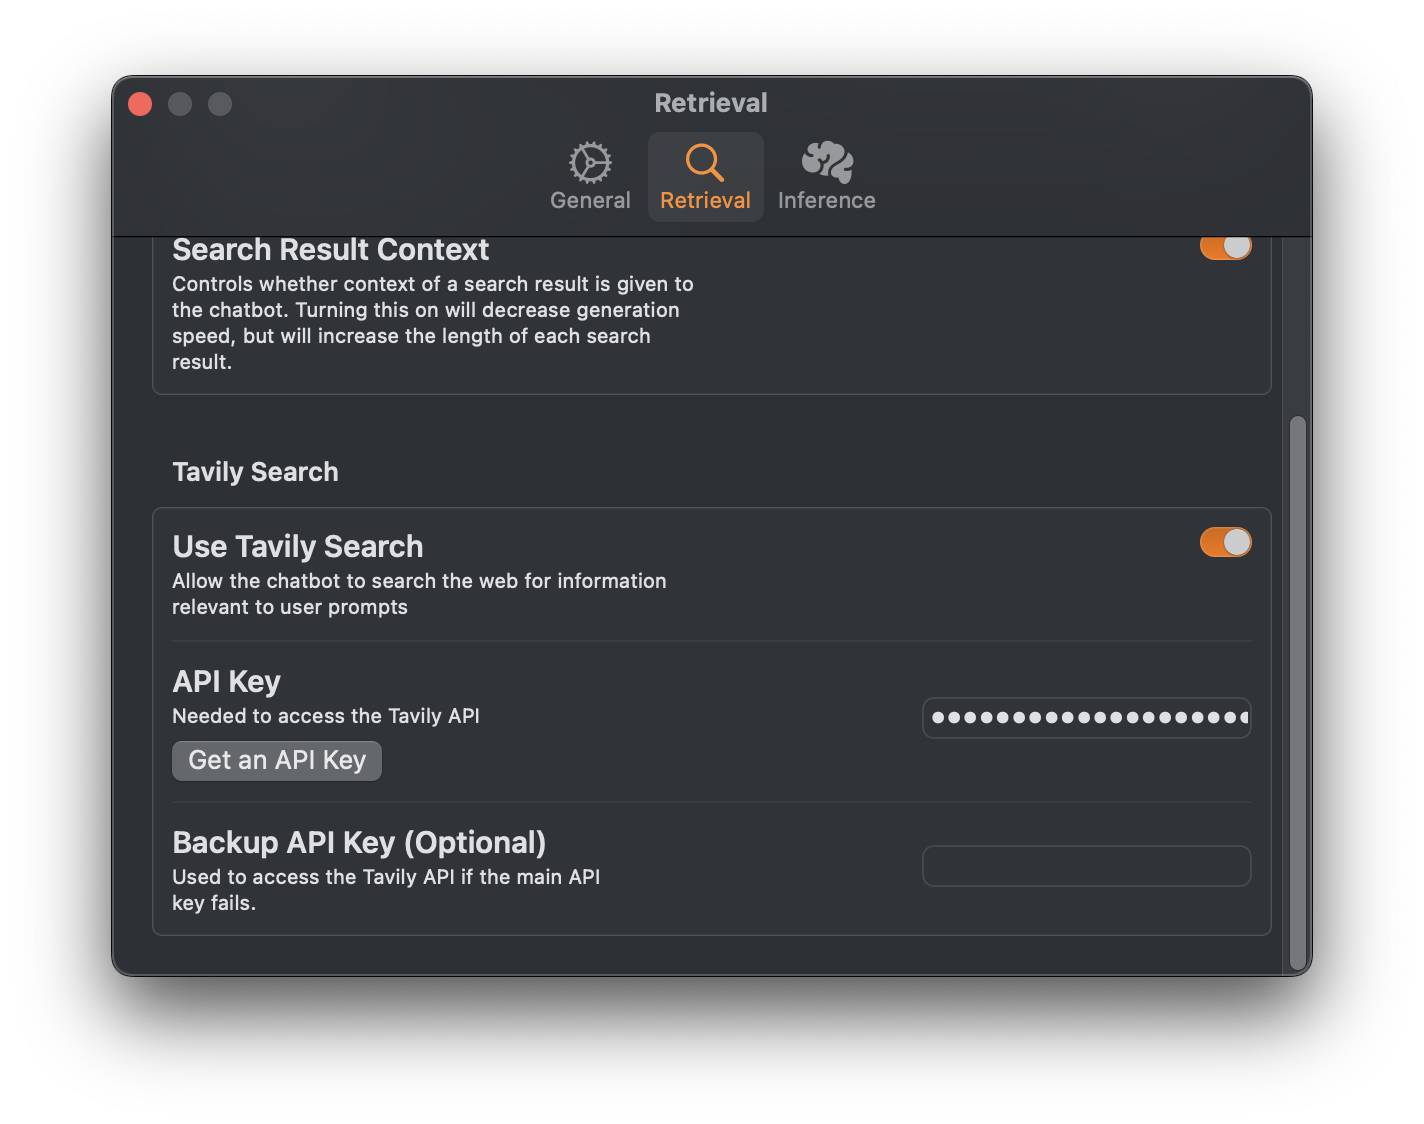
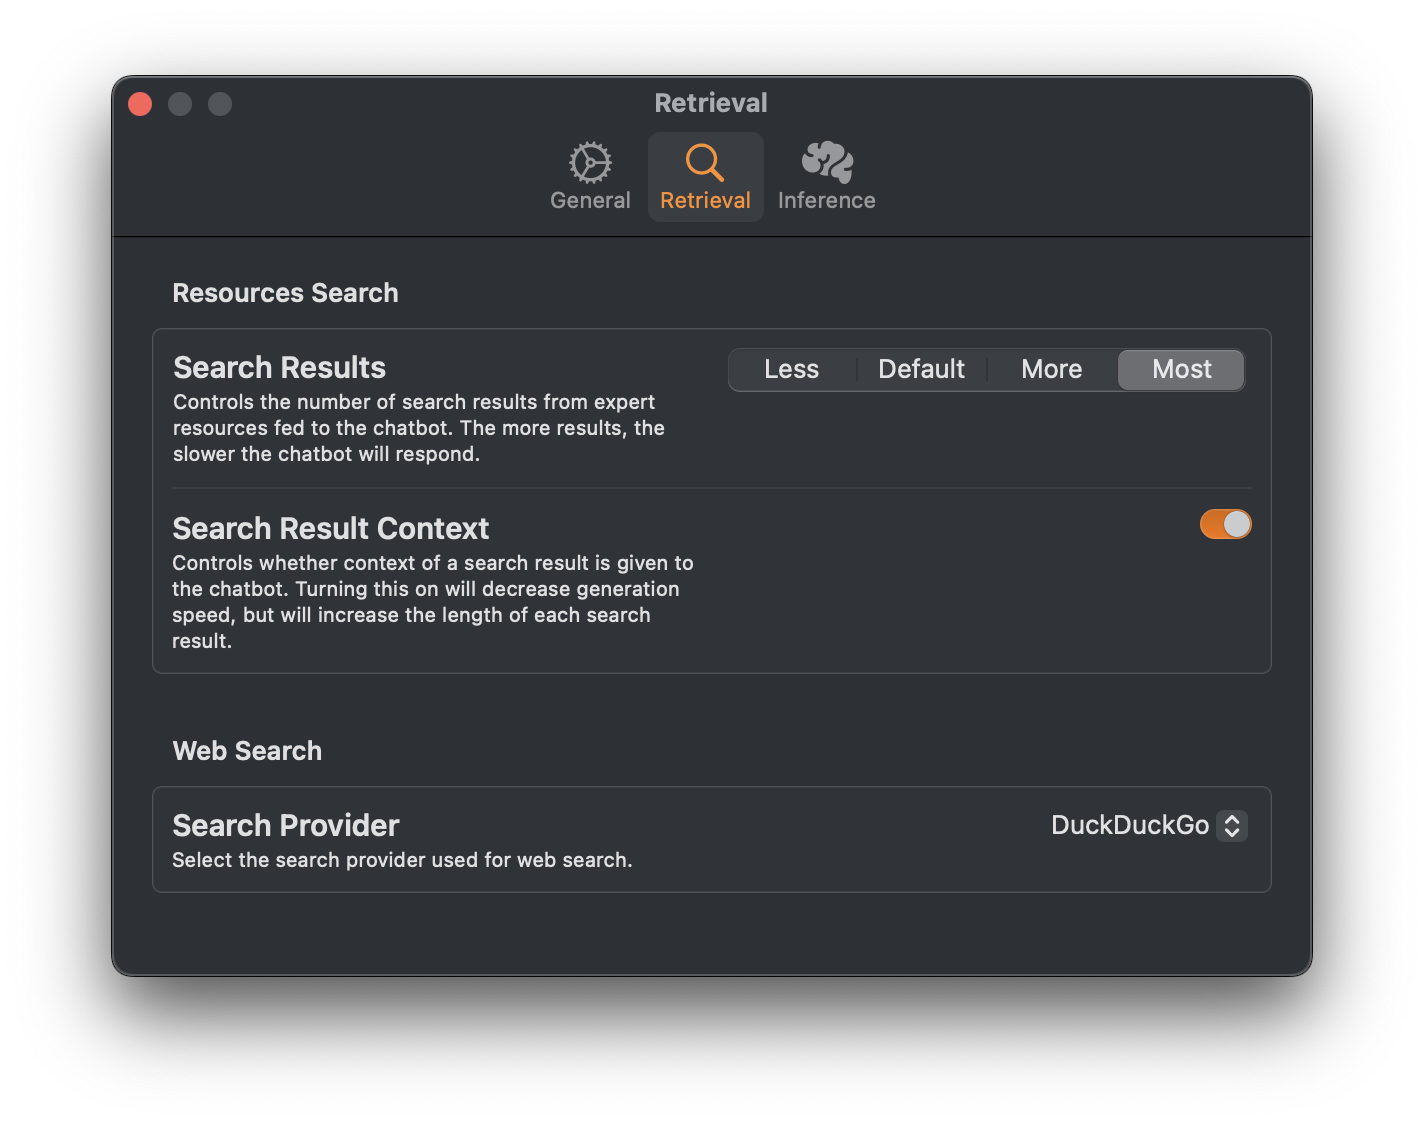
docs: Updated images and web search docs

diff --git a/site/index.html b/site/index.html
@@ -172,5 +172,5 @@
 
 <!--
 MkDocs version : 1.6.1
-Build Date UTC : 2025-04-17 17:01:06.524572+00:00
+Build Date UTC : 2025-04-18 11:56:31.650103+00:00
 -->

diff --git a/docs/Features/webSearch.md b/docs/Features/webSearch.md
@@ -4,11 +4,17 @@ Web search allows Sidekick to respond with up to date information, and reduces t
 
 ## Configure Web Search
 
-To configure web search, navigate to `Sidekick` -> `Settings` -> `Retrieval` -> `Tavily Search`.
+To configure web search, navigate to `Sidekick` -> `Settings` -> `Retrieval` -> `Web Search`.
 
 ![Web Search](../img/Docs Images/Features/Web Search/webSearchSettings.png)
 
-Click the toggle to enable or disable web search, and set an API key in the field below. Your API key will be encrypted with a key securely stored in your keychain.
+### DuckDuckGo
+
+Web search is configured to use DuckDuckGo by default. No setup is required.
+
+### Tavily
+
+Select `Tavily` in the picker, then set an API key in the field below. Your API key will be encrypted with a key securely stored in your keychain.
 
 You can create an API key by clicking the `Get an API Key` button, which will take you to [Tavily](https://app.tavily.com/home). 
 
@@ -20,7 +26,11 @@ Note that when web search is enabled, your prompt may be exposed to third partie
 
 ## Using Web Search
 
-Using web search is simple. Use click the `Web Search` button in the prompt bar to toggle web search.
+Web search is activated in 2 ways.
+
+If `Use Functions` is activated in Settings, Sidekick will automatically detect if web search is needed and call a function to search the web.
+
+To force web search, you can also click the `Web Search` button in the prompt bar to toggle web search. For most queries, the model can use
 
 ## Example Use
 
